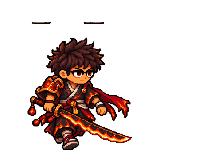
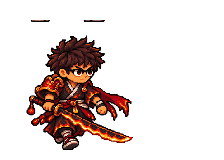
Fix elemental Jao sprite scale

Changed region(s): [[0.0938, 0.2188, 0.5938, 0.9062], [0.125, 0.125, 0.25, 0.1562], [0.375, 0.125, 0.4688, 0.1562]]

diff --git a/scripts/build_jao_elemental_sprites.py b/scripts/build_jao_elemental_sprites.py
@@ -3,7 +3,10 @@
 
 Each source atlas contains, in row-major order: idle, walk A, walk B,
 and back view. Generated production frames are fitted to the existing 224x160
-Jão canvas using nearest-neighbour scaling.
+Jão canvas using nearest-neighbour scaling. Each pose matches the visible
+height of its equivalent base Jão frame. The elemental concepts are wider and
+shorter than the base sheet, so fitting them to the same width made their
+in-game silhouettes visibly smaller.
 """
 from pathlib import Path
 from PIL import Image
@@ -13,7 +16,10 @@ SHEETS = ROOT / "art" / "sheets"
 ASSETS = ROOT / "src" / "assets"
 ELEMENTS = ("earth", "water", "fire", "lightning", "light", "shadow")
 FRAME_SIZE = (224, 160)
-MAX_SPRITE = (106, 134)
+# Alpha-bounds of jao-armed, jao-walk1-armed, jao-walk2-armed and
+# jao-back-armed, respectively. Keep evolved silhouettes aligned to the
+# approved base model in every pose while preserving each concept's aspect.
+POSE_HEIGHTS = (134, 130, 130, 134)
 ANCHOR_X = 80
 BASELINE_Y = 150
 
@@ -29,11 +35,18 @@ def make_frame(atlas: Image.Image, cell: int) -> Image.Image:
     if bounds is None:
         raise ValueError(f"Empty sprite cell {cell}")
     frame = frame.crop(bounds)
-    frame.thumbnail(MAX_SPRITE, Image.Resampling.NEAREST)
+    target_height = POSE_HEIGHTS[cell]
+    target_width = round(frame.width * target_height / frame.height)
+    frame = frame.resize((target_width, target_height), Image.Resampling.NEAREST)
+    if target_width > FRAME_SIZE[0]:
+        raise ValueError(f"Sprite cell {cell} exceeds the gameplay canvas width: {target_width}")
     canvas = Image.new("RGBA", FRAME_SIZE, (0, 0, 0, 0))
     x = ANCHOR_X - frame.width // 2
     y = BASELINE_Y - frame.height
     canvas.alpha_composite(frame, (x, y))
+    visible = canvas.getchannel("A").getbbox()
+    if visible is None or visible[3] != BASELINE_Y or abs((visible[3] - visible[1]) - target_height) > 1:
+        raise ValueError(f"Sprite cell {cell} lost base scale or foot alignment: {visible}")
     return canvas
 
 

diff --git a/docs/HANDOFF.md b/docs/HANDOFF.md
@@ -7,7 +7,7 @@
 - T007: sala do chefe no ponto mais distante do início, aviso visual antes dos ataques, barra de vida, vitória e derrota com seed, tempo, dano, salas e moedas.
 - T008: CSS preenche a área visível em celular horizontal, aviso para girar no retrato, tentativa de tela cheia após toque, pausa ao girar/perder foco, controles de toque reposicionados e FPS opcional (`?debug=1`). Captura direta de teclado complementa o input do Phaser. Ao segurar tiro, a mira seleciona o inimigo visível mais próximo; o tiro gasta energia conforme a arma, 100 pontos no máximo, recarga de 12/s após 0,65s sem disparar. Sem alvo ou sem energia suficiente não há tiro. Tiro a curta distância acerta o inimigo sobreposto ao herói; inimigos dão um passo lateral persistente para sair da quina de obstáculos; `?seed=N` reproduz salas e baús. **MVP testou e aprovou seguir em 12/10/2026.** Aparelho, FPS e run completa não foram informados nesta sessão; anotar caso haja bugs no beta, sem reabrir o aceite como impedimento.
 - T009 implementada no web: cenário de ruínas com pisos gravados, portas e obstáculos redesenhados, silhuetas próprias para herói e inimigos, HUD e overlays revisados, efeitos Web Audio originais com mudo. `CREDITS.md` registra procedência; não há assets externos. O MVP adiou os testes de áudio/arte no aparelho e pediu para avançar em 12/10/2026.
-- T010 em execução: run reorganizada em mundos de cinco fases; as seis formas puras do Jão e suas habilidades estão implementadas, e Plasma/Lodo seguem como fusões iniciais. O novo modo ADM por `?admin=1` permite selecionar a forma, invocar inimigos e restaurar vida/energia sem repetir a run. Faltam validação visual das habilidades, playtest da run completa, arte própria da Cripta, formas de Alice/Gui e balanceamento. T011–T015 pendentes. Save, PWA e APK não existem.
+- T010 em execução: run reorganizada em mundos de cinco fases; as seis formas puras do Jão e suas habilidades estão implementadas, e Plasma/Lodo seguem como fusões iniciais. O novo modo ADM por `?admin=1` permite selecionar a forma, invocar inimigos e restaurar vida/energia sem repetir a run. A escala das seis formas foi corrigida localmente para igualar a altura visível e a linha dos pés do Jão base; aguarda publicação. Faltam validação visual das habilidades, playtest da run completa, arte própria da Cripta, formas de Alice/Gui e balanceamento. T011–T015 pendentes. Save, PWA e APK não existem.
 - O MVP enviou oito capturas do Soul Knight e depois fotos de Jão, Alice e Gui em 12/10/2026. **Rejeitou a v0.1 futurista** (`JUNQ: RUPTURA`, anel e interface abstrata). `docs/06-DIRECAO-VISUAL.md` foi substituído pela v0.2: pixel art de aventura com pedra, madeira, tochas, retratos/sprites do trio e mockups de abertura, seleção e combate. O MVP aprovou a v0.2 e pediu assets na build. Quatro WebP em `docs/visual/` permanecem conceitos; fotos originais não foram publicadas. A primeira implementação usa novos assets de produção em `src/assets/`, sem incluir os mockups na build. Não reintroduzir a direção rejeitada.
 
 ## Evidência e limites
@@ -91,3 +91,11 @@ O MVP escolheu Ronin da Tempestade e aprovou a rodada seguinte com conceitos de 
 `?admin=1` revela o botão ADM na arena. No desktop, F2 também abre e fecha o painel; no celular, use o botão. O painel pausa o combate e permite selecionar forma base ou Terra/Água/Fogo/Raio/Luz/Sombra, invocar Diabrete/Atirador/Sentinela/Bruto/Chefe e restaurar vida, escudo, energia e recarga. Inimigos surgem em espaços livres e o limite é 30 ativos. A mudança de forma aplica cinco pontos na afinidade selecionada, troca o herói para Jão e atualiza visual, arma e habilidade; isso só vale para a run atual. O roteiro completo está em [`docs/10-MODO-ADM-VALIDACAO.md`](10-MODO-ADM-VALIDACAO.md).
 
 O commit [`7332410`](https://github.com/JaoDaJunq/Junq_SoulKnight/commit/733241007c46f05efed43dfe8dc93e53befc710d) publicou o modo ADM; [Actions 38344502204](https://github.com/JaoDaJunq/Junq_SoulKnight/actions/runs/38344502204) concluiu verify e deploy com sucesso. Localmente passaram `npm run typecheck`, `npm test` (4 arquivos) e `npm run build`. Dois testes cobrem o mapeamento das formas e posições de spawn sem sobreposição ou obstáculos. O deploy do Pages foi confirmado pelo Actions, mas o painel não foi aberto para inspeção visual; celular horizontal também aguarda playtest do MVP. Próximo passo: validar o fluxo via ADM, corrigir qualquer erro de interação/visual e registrar as habilidades observadas. T010 segue aberto.
+
+## Escala das formas elementais (13/10/2026)
+
+O MVP enviou duas capturas comparando o Jão base e Terra. A causa era o pipeline `scripts/build_jao_elemental_sprites.py`: o sprite base preenchia 134 px de altura útil, enquanto as pranchas elementais, mais largas, eram limitadas pela largura em 106 px e ficavam perto de 100 px de altura. Como o Phaser escala o canvas 224×160 inteiro, os corpos continuavam visivelmente menores na arena.
+
+O script agora escala cada pose pela altura correspondente ao Jão base (134/130/130/134 px), mantém o aspecto com nearest-neighbour, fixa os pés em `y=150` e valida escala/alinhamento. Regeneramos todas as poses de Terra, Água, Fogo, Raio, Luz e Sombra, incluindo os PNGs usados no corte. A altura visível passou para 130–134 px (base entre 130–134 px); a largura varia com armadura e espada.
+
+Checagens desta rodada: geração das seis folhas sem erro; inspeção programática dos 30 PNGs de formas/ataques confirma os canvases e as alturas; `npm run typecheck`, `npm test` e `npm run build` ainda pendentes. Não foi possível registrar commit ou deploy: o workspace fornecido tem diretório `.git` vazio, sem metadados de repositório. A alteração continua local e não está publicada no Pages. Próximo: rodar as checagens, integrar este estado ao repositório remoto e validar as seis formas visualmente no modo ADM.

diff --git a/docs/04-ROADMAP.md b/docs/04-ROADMAP.md
@@ -13,7 +13,7 @@ Cada tarefa termina com commit/PR, teste no Pages quando houver interface, atual
 | T007 | Chefe com ataques sinalizados e encerramento da run | T006 | Vitória e derrota completas; relatório com seed e tempo. **Vertical slice P1.** |
 | T008 | Playtest P1 e revisão de desempenho/controles | T007 | Testes no Android e desktop; bugs de bloqueio e mortes sem feedback corrigidos. **Aceite do MVP para seguir em 12/10/2026.** Não há registro de aparelho, FPS ou run completa, então esses casos permanecem em observação para o beta. |
 | T009 | Direção de arte autoral, UI, áudio e créditos | T008 | Origem rastreável para cada asset; leitura do combate preservada. A v0.2 em pixel art foi aprovada e integrada em abertura, seleção, Átrio, Forja, personagens e HUD. Sons Web Audio originais com mudo. O novo altar e inimigos têm arte própria; faltam refinamento e escuta em aparelho. |
-| T010 | Personagens Junq, masmorras e afinidades | T008, T009 | Jão/Alice/Gui com espada, arco e cartas; cinco fases por mundo, chefe na quinta, baús 1/5 e 3/5, altares 2/5 e 4/5. Três regiões visuais iniciais, cinco criaturas, relíquias de vida/escudo/energia, Plasma e Lodo. **Implementado:** seis formas puras do Jão (Terra, Água, Fogo, Raio, Luz e Sombra) com roupas/sprites e habilidades próprias; modo ADM por `?admin=1` para selecionar formas, invocar inimigos e restaurar vida/energia. **Em execução:** MVP validar cada forma no Pages via ADM, percorrer a run, criar arte própria da Cripta, formas dos outros heróis e balancear no aparelho. Ver [masmorras](08-MASMORRAS-E-RELIQUIAS.md), [formas/assets do Jão](09-JAO-SINTONIAS-E-ASSETS.md) e [modo ADM](10-MODO-ADM-VALIDACAO.md). |
+| T010 | Personagens Junq, masmorras e afinidades | T008, T009 | Jão/Alice/Gui com espada, arco e cartas; cinco fases por mundo, chefe na quinta, baús 1/5 e 3/5, altares 2/5 e 4/5. Três regiões visuais iniciais, cinco criaturas, relíquias de vida/escudo/energia, Plasma e Lodo. **Implementado:** seis formas puras do Jão (Terra, Água, Fogo, Raio, Luz e Sombra) com roupas/sprites e habilidades próprias; modo ADM por `?admin=1` para selecionar formas, invocar inimigos e restaurar vida/energia. **Correção local nesta rodada:** formas dimensionadas pela altura visível do Jão base e pés alinhados; aguarda publicação. **Em execução:** MVP validar cada forma no Pages via ADM, percorrer a run, criar arte própria da Cripta, formas dos outros heróis e balancear no aparelho. Ver [masmorras](08-MASMORRAS-E-RELIQUIAS.md), [formas/assets do Jão](09-JAO-SINTONIAS-E-ASSETS.md) e [modo ADM](10-MODO-ADM-VALIDACAO.md). |
 | T011 | Hub, desbloqueios, save com migração, opções e onboarding | T008 | Persistência após fechar/reabrir; reset e recuperação de save inválido. |
 | T012 | Beta fechado e polimento | T009–T011 | Jogadores novos concluem tentativa; erros de console, input e save monitorados. |
 | T013 | Lançamento web | T012 | CI e Pages verdes, créditos, instruções, changelog e teste final em dispositivos. |

diff --git a/docs/09-JAO-SINTONIAS-E-ASSETS.md b/docs/09-JAO-SINTONIAS-E-ASSETS.md
@@ -27,6 +27,14 @@ Todas as habilidades miram automaticamente o inimigo visível mais próximo, man
 
 As imagens de conceito e as matrizes foram geradas para este projeto. Os sprites na build são versões reduzidas e recortadas dessas matrizes; ainda não são animações finais redesenhadas manualmente em grade baixa. Artefatos de direção visual servem para validar o resultado em jogo, escala e legibilidade.
 
+### Correção de escala das formas
+
+As capturas comparando o Jão base com Terra mostraram que a forma parecia menor. A causa estava na geração: as pranchas elementais têm personagens mais largos e baixos do que a prancha base, mas o script aplicava o mesmo limite de largura (`106 px`). Isso exportava corpos com aproximadamente `100 px` de altura útil, enquanto o base tem `134 px`. O Phaser já dimensionava o canvas inteiro pela mesma altura, então o espaço transparente não compensava a diferença.
+
+O pipeline agora dimensiona cada pose pela altura visível equivalente do base — `134/130/130/134 px` — preserva a proporção original com vizinho mais próximo e mantém os pés em `y=150`. A regra vale para Terra, Água, Fogo, Raio, Luz e Sombra, incluindo os frames usados no corte de ataque. A largura pode variar com a armadura, a espada e efeitos desenhados na prancha; a altura e a linha dos pés ficam consistentes. O próprio script falha se uma matriz sair fora dessa escala ou alinhamento.
+
+Prévia lado a lado: [Jão base e seis formas na escala corrigida](visual/jao-formas-escalas-corrigidas.png).
+
 ## Assets previstos para a etapa de acabamento
 
 - Quatro vistas direcionais e dois passos por direção para cada forma, depois que a leitura das atuais for validada.

diff --git a/README.md b/README.md
@@ -8,7 +8,7 @@ Planejamento de um jogo autoral 2D de ação, roguelite e tiro com visão superi
 
 **Arte dos heróis:** as [três pranchas aprovadas](docs/06-DIRECAO-VISUAL.md) orientam sprites novos de seleção, caminhada e ataque com as armas desenhadas junto ao corpo. A espada, o arco e as cartas não dependem mais de uma camada solta sobre o personagem. Os projéteis e a lógica de combate continuam os mesmos.
 
-Alice e Gui foram reajustados à proporção compacta do Jão nas poses de seleção, movimento e ataque. As matrizes ficam em `art/sheets/`; `python scripts/build_approved_sprites.py` regenera os PNGs com Pillow.
+Alice e Gui foram reajustados à proporção compacta do Jão nas poses de seleção, movimento e ataque. As seis formas elementais do Jão também usam agora a altura visível do sprite base em cada pose, com os pés alinhados; isso corrige a extração antiga, que limitava pela largura e deixava as formas baixas. As matrizes ficam em `art/sheets/`; `python scripts/build_approved_sprites.py` e `python scripts/build_jao_elemental_sprites.py` regeneram seus PNGs com Pillow.
 
 ## O jogo em uma frase
 
